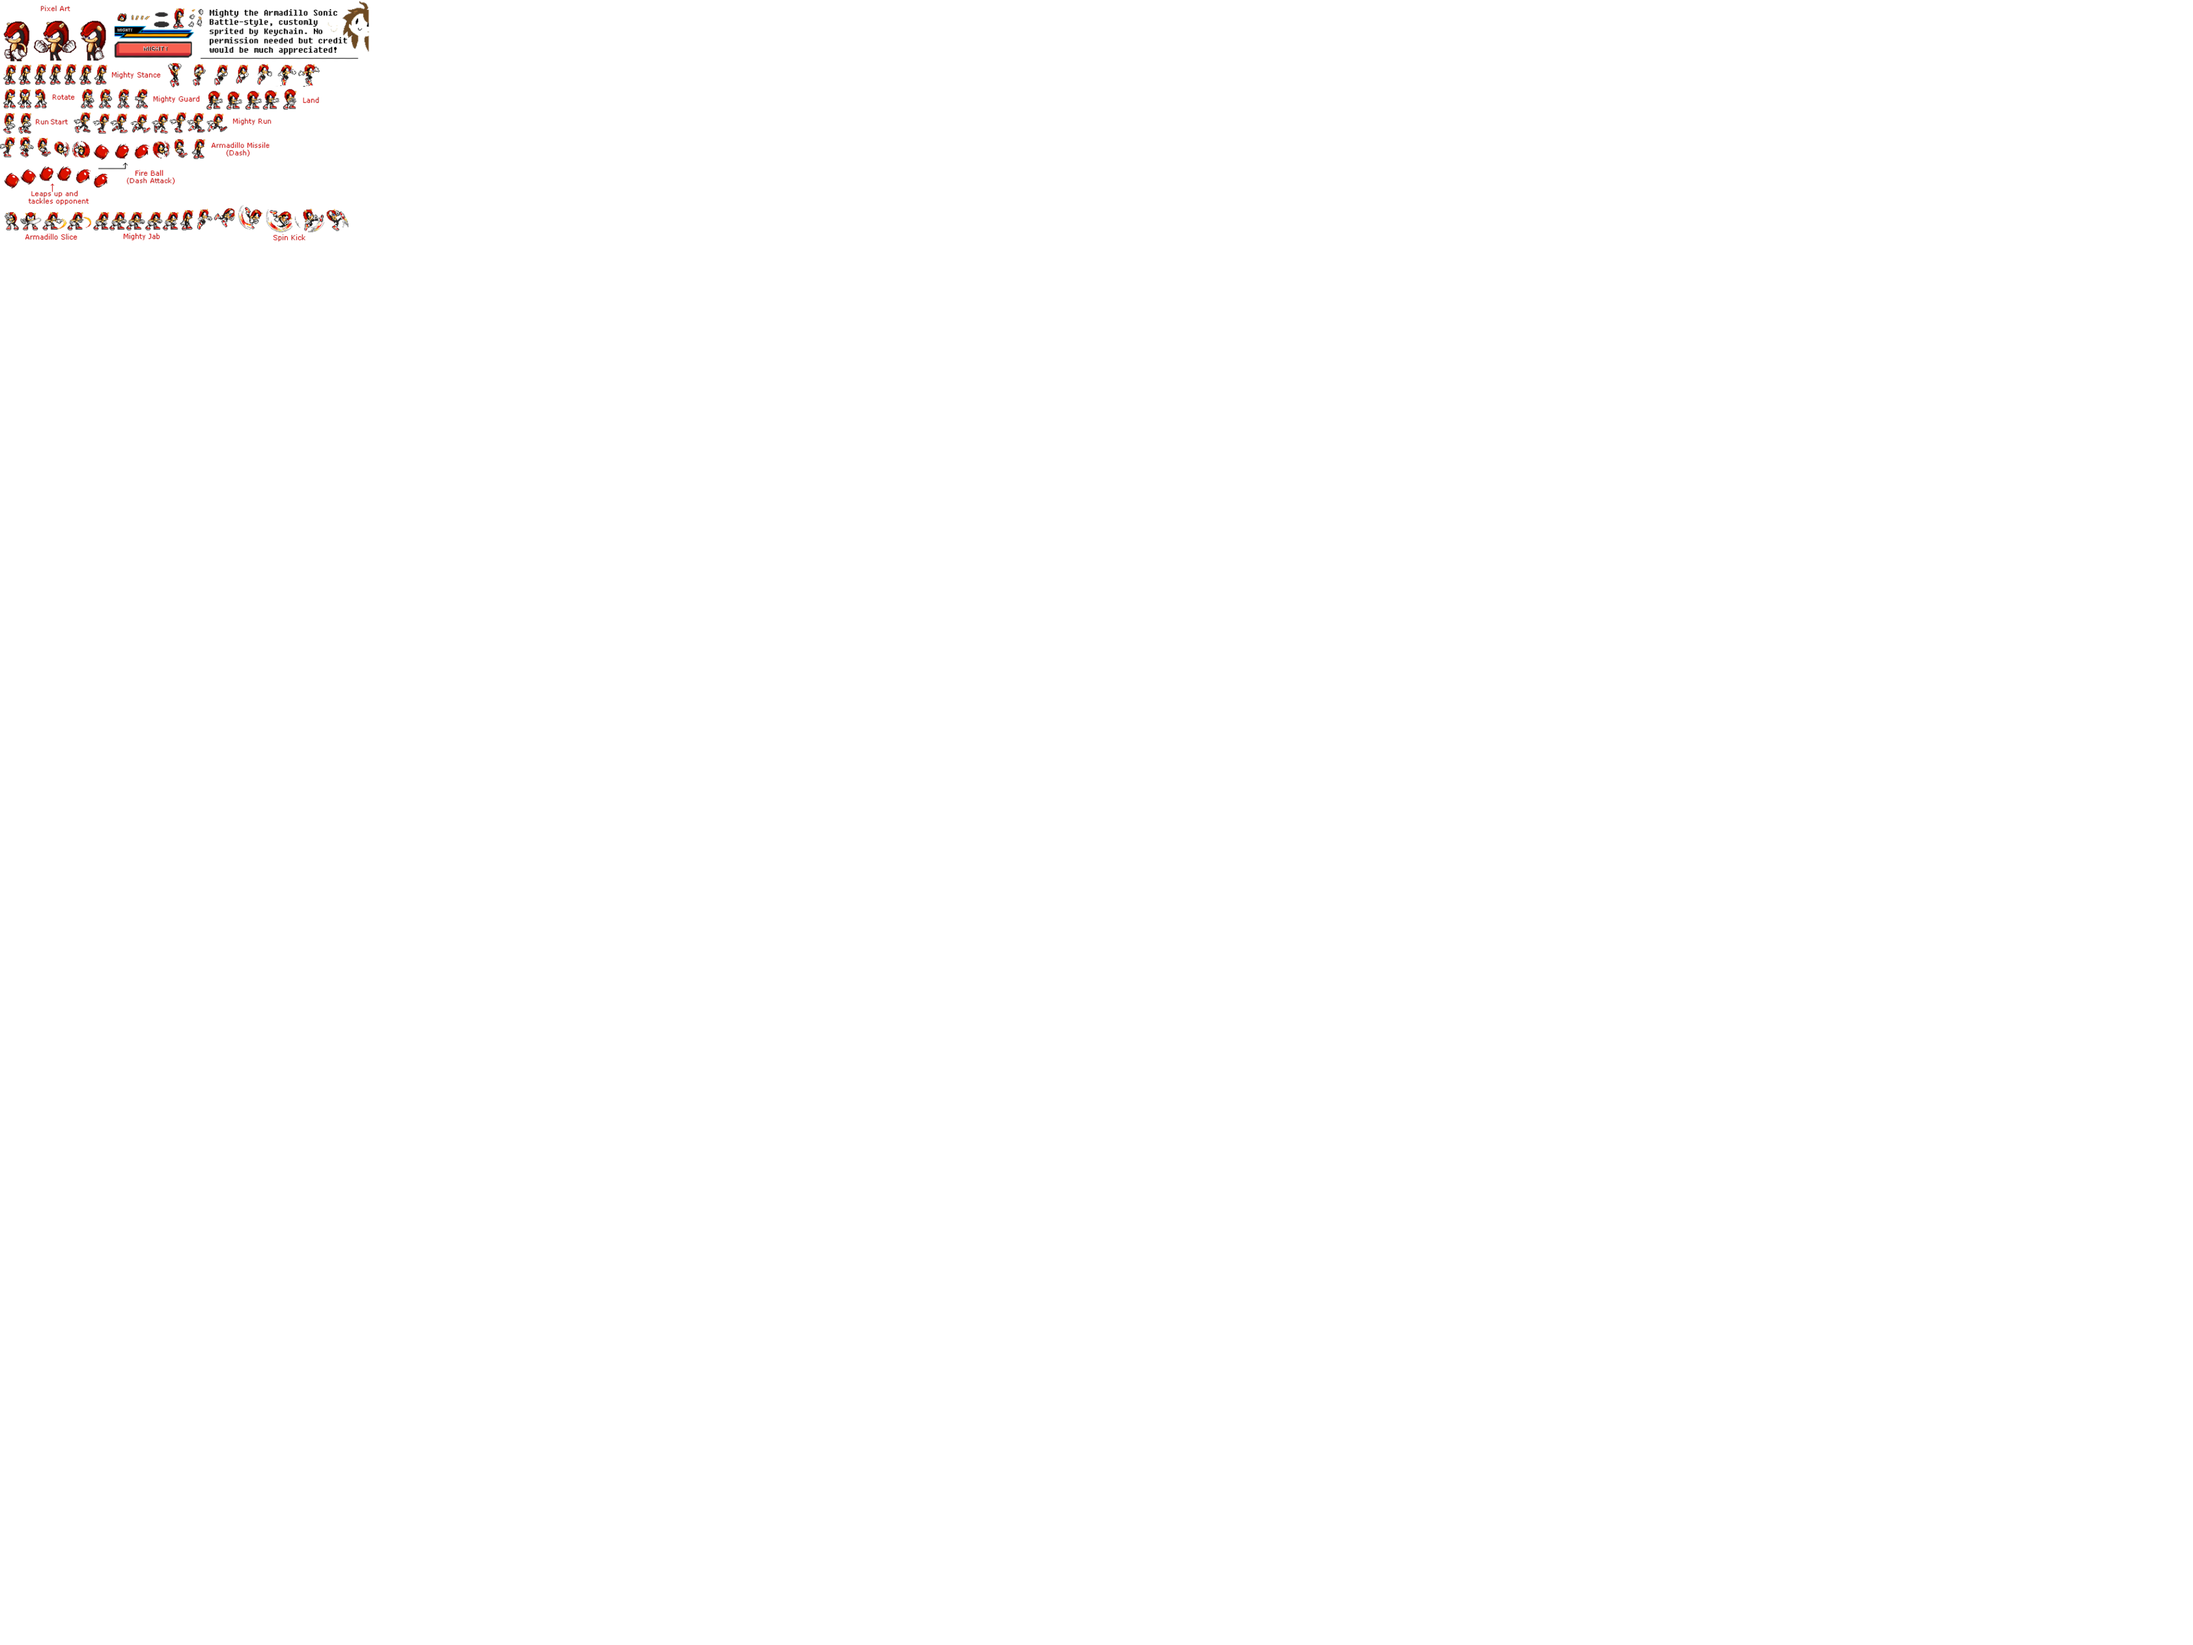
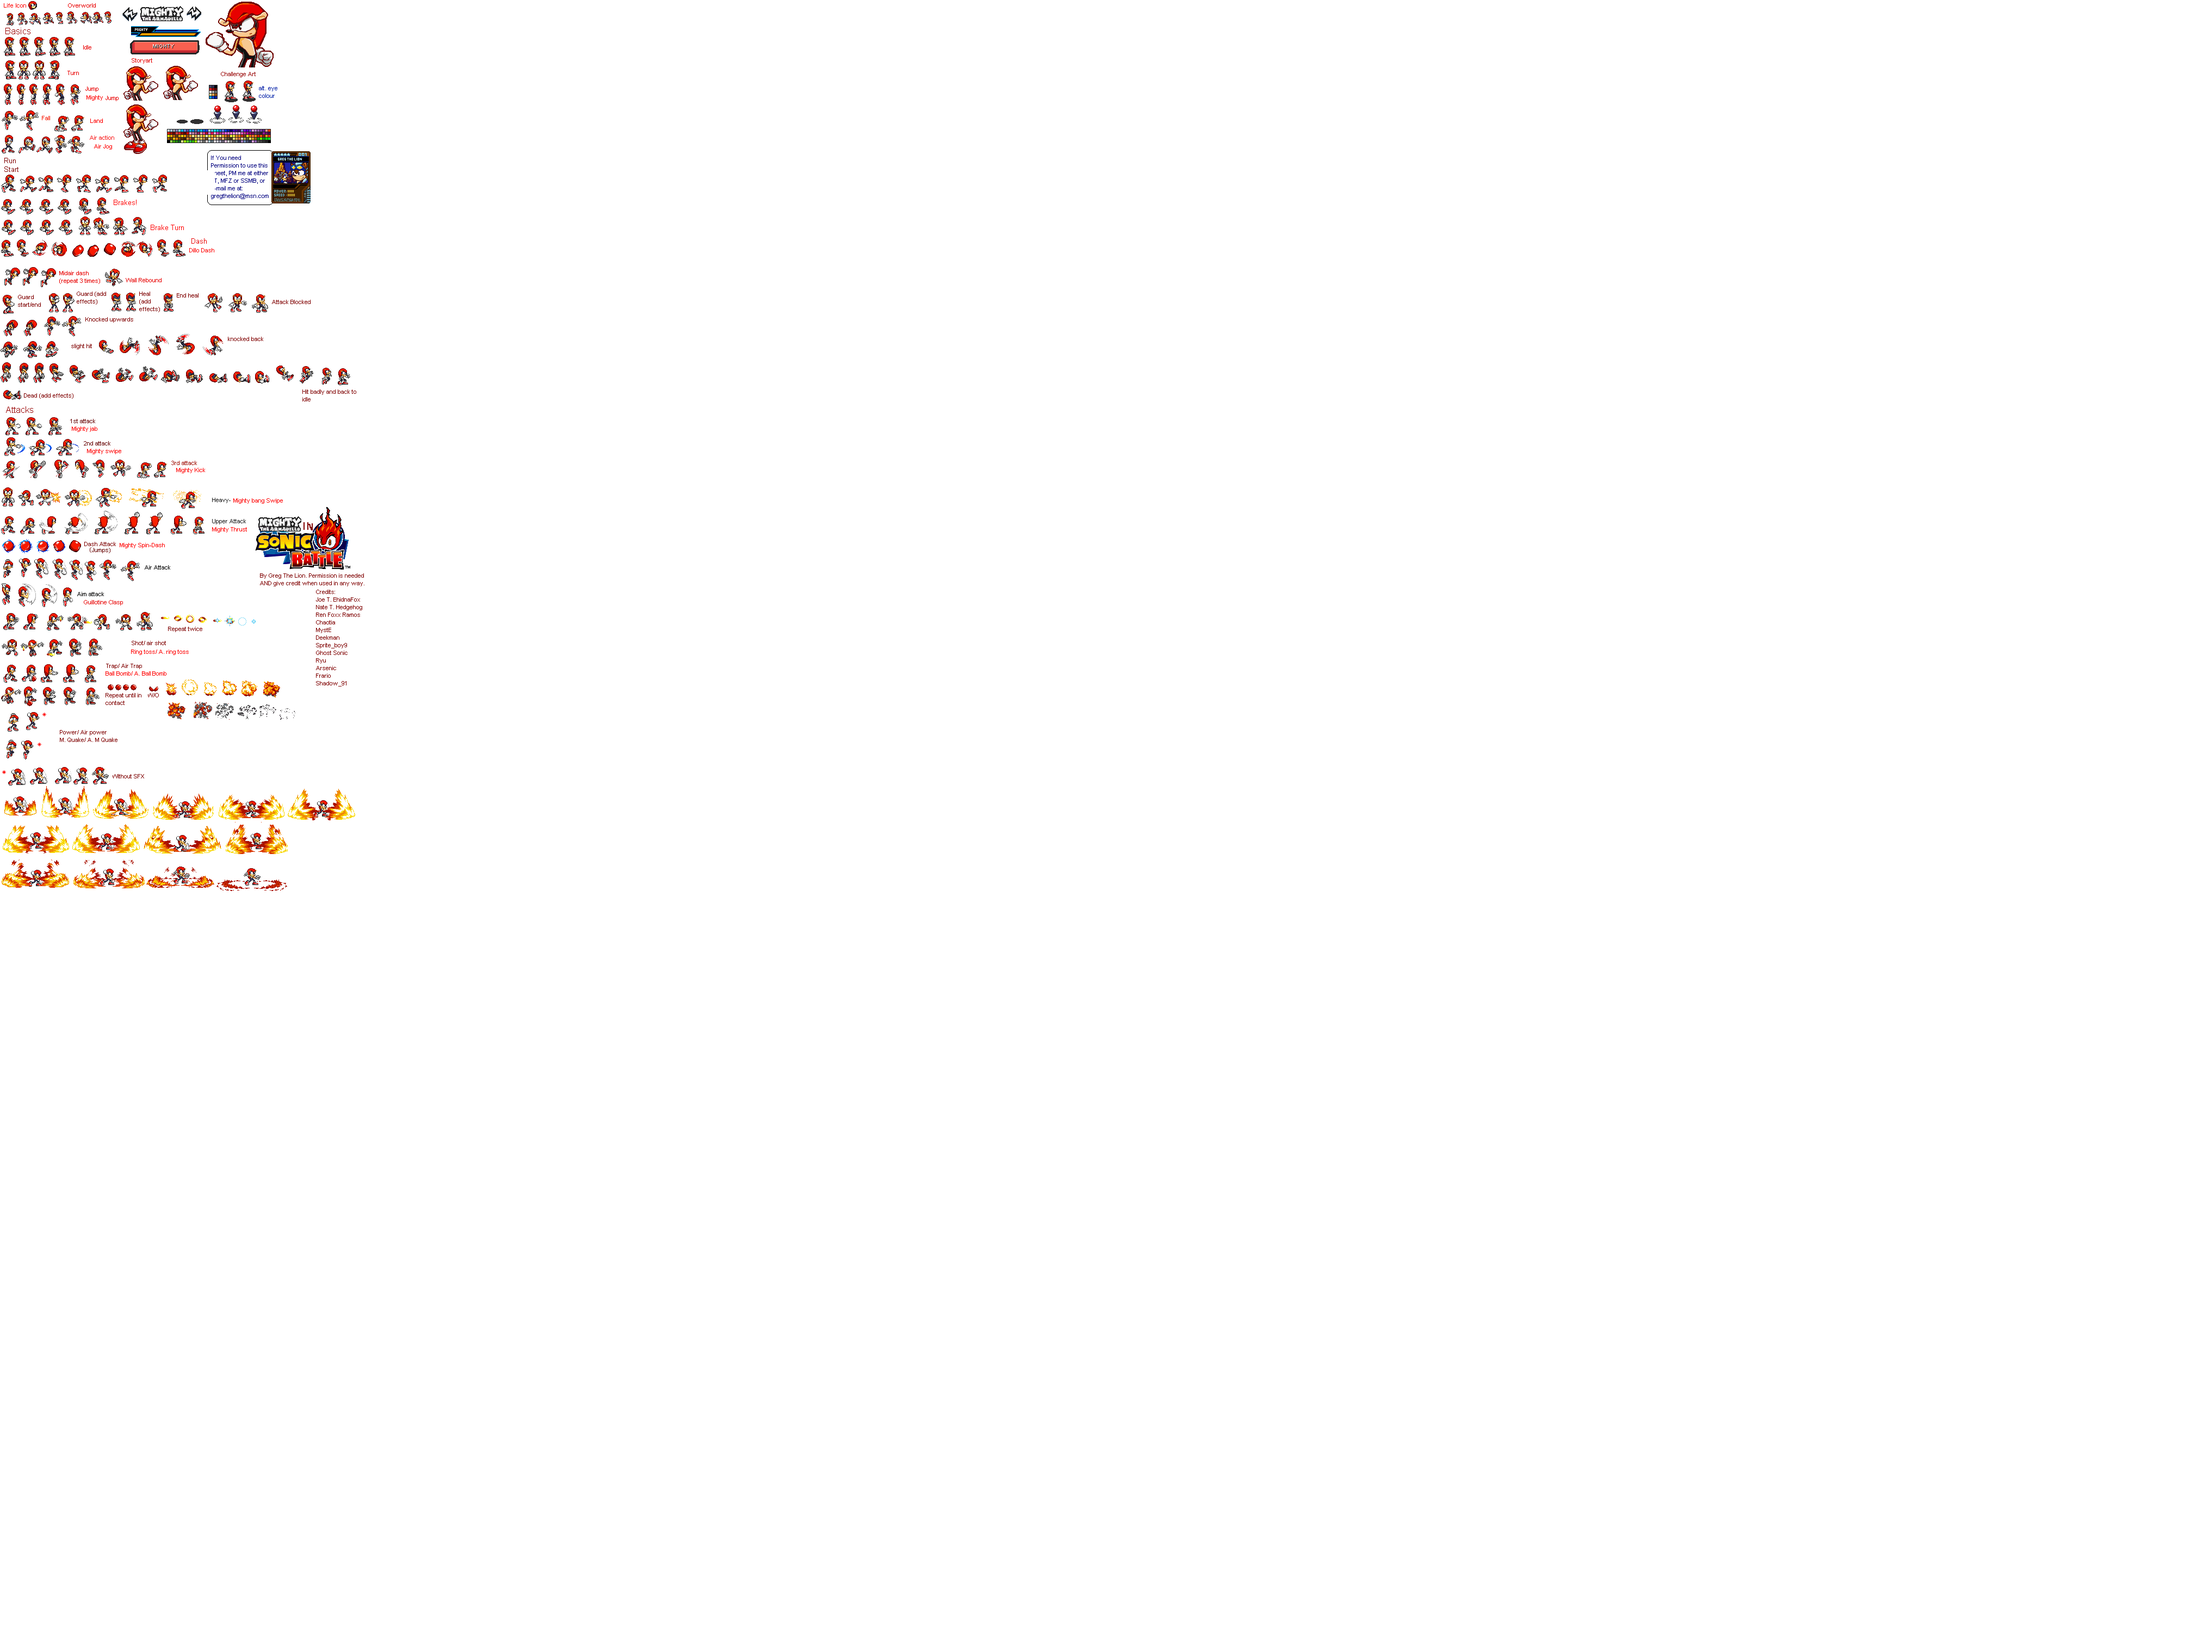
mighty sprite 교체
mighty sprite 교체

Changed region(s): [[0.0, 0.0, 0.1875, 0.5595], [0.125, 0.2176, 0.1562, 0.2487]]

diff --git a/character.py b/character.py
@@ -143,6 +143,7 @@ class RUN:
         self.image.clip_composite_draw(self.move_type[0],self.move_type[1],self.move_type[2],self.move_type[3],
                                             self.rotate, self.face_dir,
                                             self.x, self.y, self.move_type[4], self.move_type[5])
+
 class Player_JUMP:
     @staticmethod
     def enter(self, event):
@@ -554,23 +555,22 @@ class Mighty(Character):
         super(Mighty, self).__init__()
         self.image = load_image("character/mighty.png")
 
-        self.idle_type = [0, 2870, 30, 35, 30, 35]
-        self.move_type = [0, 2780, 33, 38, 33, 38]
-        self.jump_type = [0, 2870, 38, 38, 38, 38]
+        self.idle_type = [0, 2920, 30, 40, 30, 40]
+        self.move_type = [0, 2670, 38, 40, 38, 40]
+        self.jump_type = [0, 2830, 30, 40, 30, 40]
 
     def update(self):
         super(Mighty, self).update()
         self.cur_state.do(self)
 
-        self.idle_size = self.idle_frame * 28 + 5
-        self.move_size = self.move_frame * 35 + 137
-        self.jump_size = self.jump_frame * 40 + 310
+        self.idle_size = self.idle_frame * 28
+        self.move_size = self.move_frame * 35
+        self.jump_size = self.jump_frame * 24
 
         if self.time % 5 == 0:
-            self.idle_frame = (self.idle_frame + 1) % 7
-            self.move_frame = (self.move_frame + 1) % 8
-        if self.time % 20 == 0:
-            self.jump_frame = (self.jump_frame + 1) % 7
+            self.idle_frame = (self.idle_frame + 1) % 5
+            self.move_frame = (self.move_frame + 1) % 9
+            self.jump_frame = (self.jump_frame + 1) % 6
 
     def draw(self):
         self.cur_state.draw(self)
